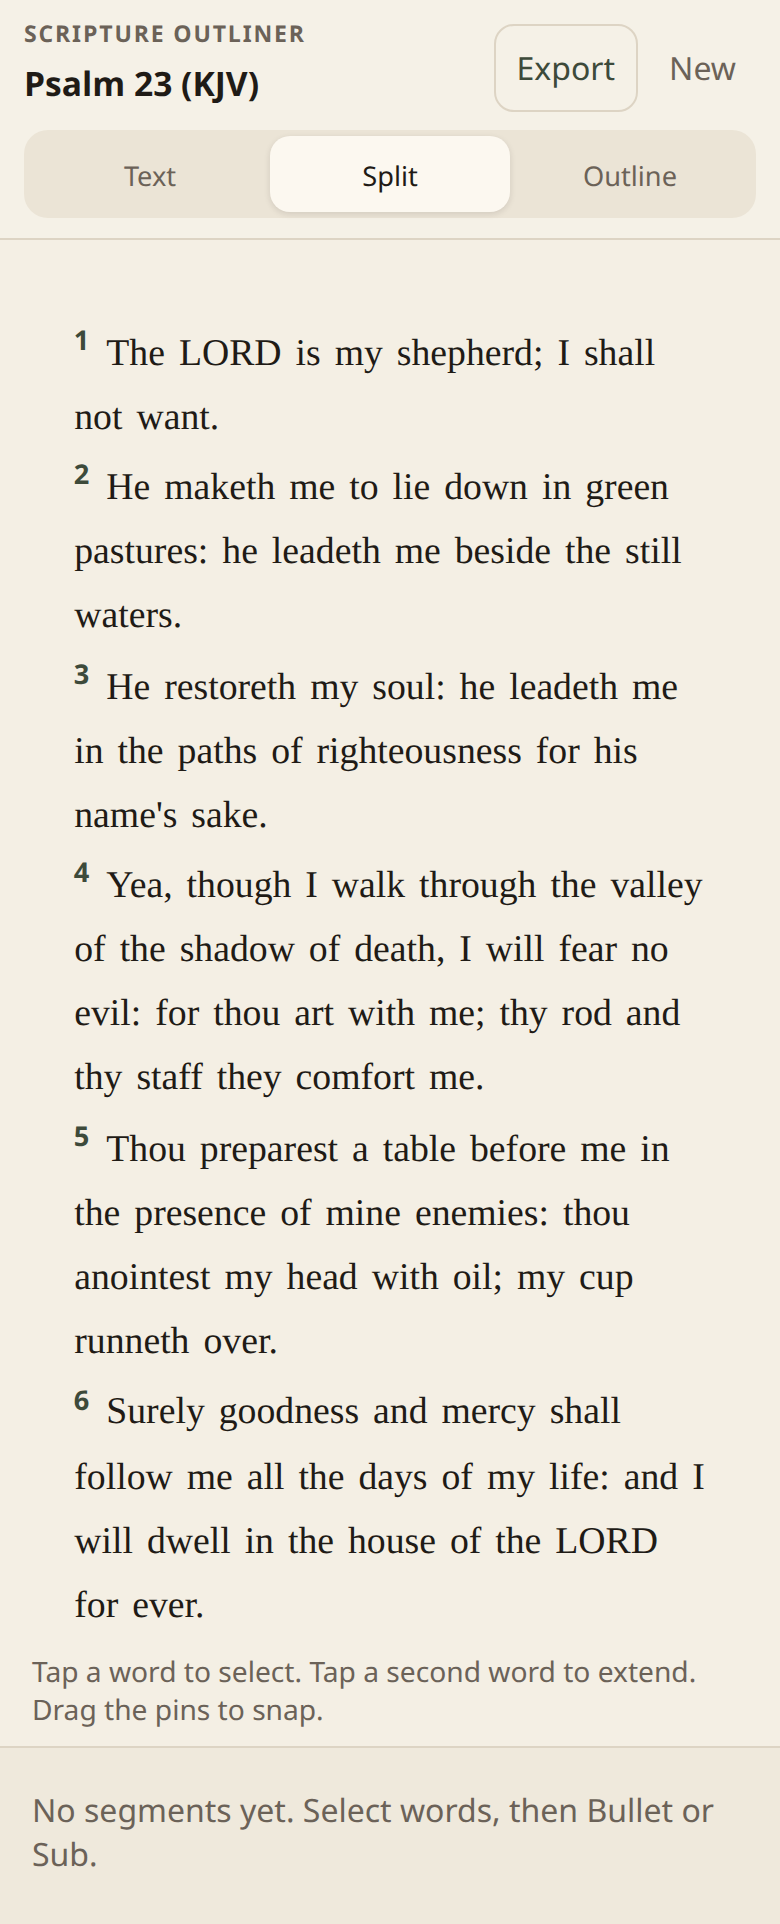
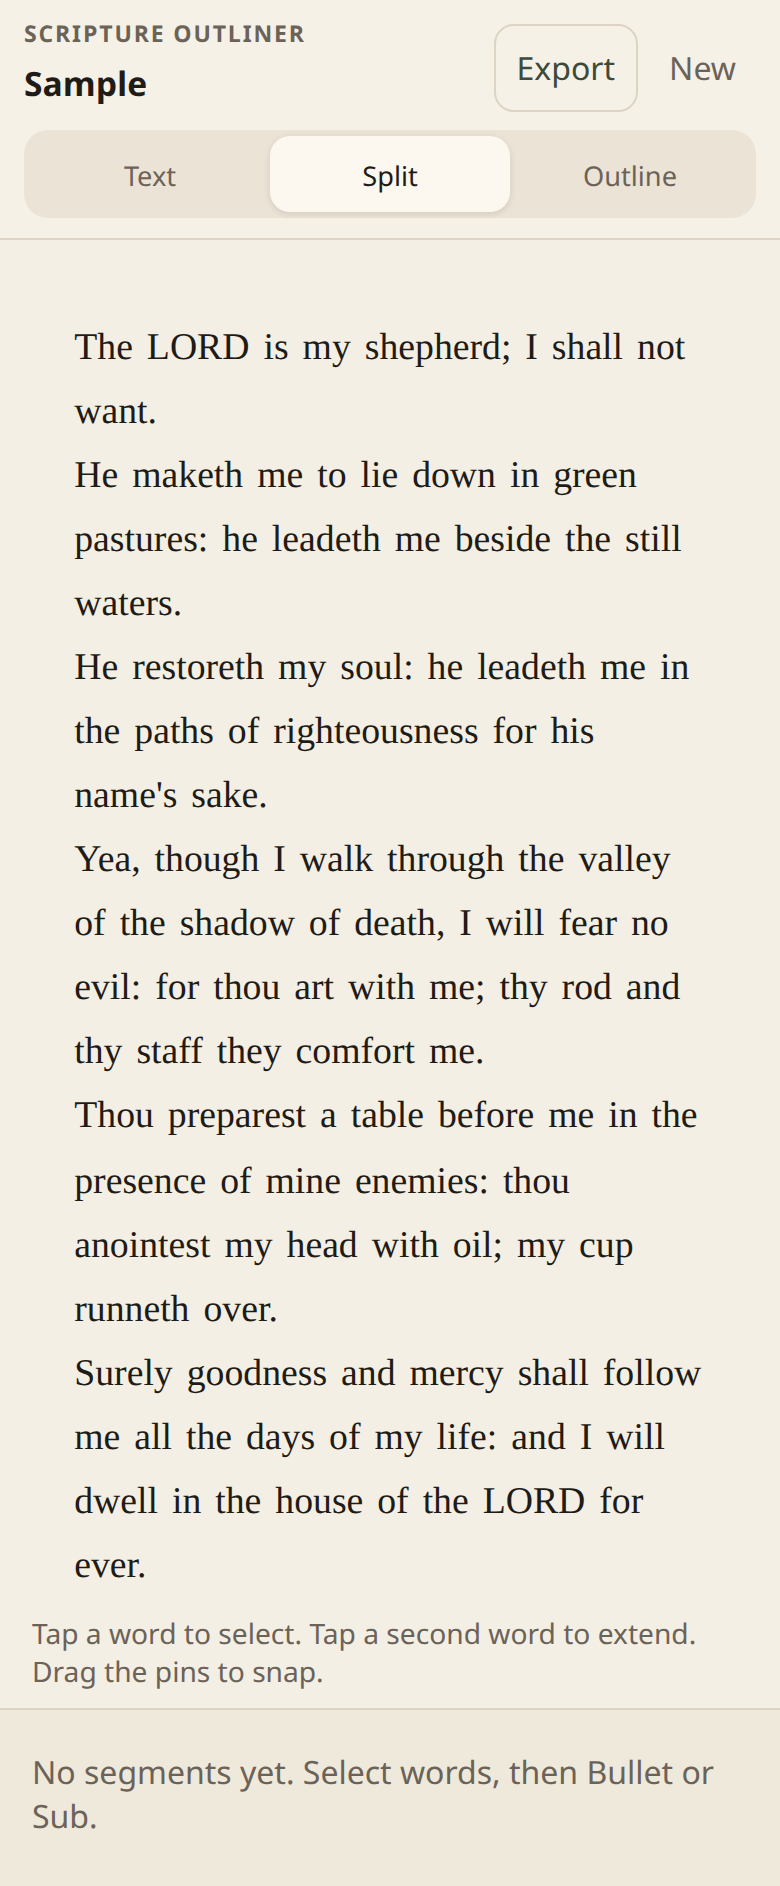
Treat the app as a general text outliner without verse chrome.
Tokenize numbers as ordinary words, drop verseLabel styling, and present the sample as plain prose. README and import copy follow the text-outliner framing. Verification recipes and import-sample evidence are updated.

diff --git a/src/app.ts b/src/app.ts
@@ -156,7 +156,7 @@ export function mount(root: HTMLElement): void {
     for (const word of doc.passage.words) {
       appendBreak(refs.passage, breaks[word.id] ?? "space");
       const span = document.createElement("span");
-      span.className = word.verseLabel ? "word verse" : "word";
+      span.className = "word";
       span.dataset.wordId = String(word.id);
       span.setAttribute("data-testid", "word");
       span.textContent = word.text;
@@ -540,7 +540,7 @@ export function mount(root: HTMLElement): void {
 
   refs.importView.querySelector("[data-import-submit]")?.addEventListener(
     "click",
-    () => importTextAs("Untitled passage", refs.importText.value),
+    () => importTextAs("Untitled", refs.importText.value),
   );
   refs.importView.querySelector("[data-load-sample]")?.addEventListener(
     "click",
@@ -707,7 +707,7 @@ function shellHtml(): string {
       <header class="header">
         <div class="brand">
           <h1 data-testid="app-title">Scripture Outliner</h1>
-          <input class="title-input" type="text" placeholder="Untitled passage" hidden data-testid="title-input" />
+          <input class="title-input" type="text" placeholder="Untitled" hidden data-testid="title-input" />
         </div>
         <div class="header-actions" hidden>
           <button type="button" class="secondary" data-export data-testid="export">Export</button>
@@ -717,12 +717,12 @@ function shellHtml(): string {
       </header>
       <main class="main">
         <section class="empty" data-import data-testid="import-view">
-          <h2>Import a passage</h2>
-          <p>Paste scripture (or any text). Select by tapping words — nothing is auto-outlined.</p>
-          <textarea data-import-text data-testid="import-text" placeholder="Paste passage text…"></textarea>
+          <h2>Import text</h2>
+          <p>Paste any text. Select by tapping words — nothing is auto-outlined.</p>
+          <textarea data-import-text data-testid="import-text" placeholder="Paste text…"></textarea>
           <div class="empty-actions">
             <button type="button" data-import-submit data-testid="import-submit">Import</button>
-            <button type="button" class="secondary" data-load-sample data-testid="load-sample">Load sample (Psalm 23 KJV)</button>
+            <button type="button" class="secondary" data-load-sample data-testid="load-sample">Load sample</button>
           </div>
         </section>
         <section class="editor" hidden data-editor data-testid="editor" data-view="split">

diff --git a/src/sample.ts b/src/sample.ts
@@ -1,9 +1,9 @@
-/** Public-domain KJV text (Psalm 23). */
-export const SAMPLE_TITLE = "Psalm 23 (KJV)";
+/** Public-domain prose used as a built-in sample. */
+export const SAMPLE_TITLE = "Sample";
 
-export const SAMPLE_TEXT = `1 The LORD is my shepherd; I shall not want.
-2 He maketh me to lie down in green pastures: he leadeth me beside the still waters.
-3 He restoreth my soul: he leadeth me in the paths of righteousness for his name's sake.
-4 Yea, though I walk through the valley of the shadow of death, I will fear no evil: for thou art with me; thy rod and thy staff they comfort me.
-5 Thou preparest a table before me in the presence of mine enemies: thou anointest my head with oil; my cup runneth over.
-6 Surely goodness and mercy shall follow me all the days of my life: and I will dwell in the house of the LORD for ever.`;
+export const SAMPLE_TEXT = `The LORD is my shepherd; I shall not want.
+He maketh me to lie down in green pastures: he leadeth me beside the still waters.
+He restoreth my soul: he leadeth me in the paths of righteousness for his name's sake.
+Yea, though I walk through the valley of the shadow of death, I will fear no evil: for thou art with me; thy rod and thy staff they comfort me.
+Thou preparest a table before me in the presence of mine enemies: thou anointest my head with oil; my cup runneth over.
+Surely goodness and mercy shall follow me all the days of my life: and I will dwell in the house of the LORD for ever.`;

diff --git a/src/tokenize.ts b/src/tokenize.ts
@@ -7,11 +7,9 @@ export type TokenizeResult = {
   breakBefore: BreakKind[];
 };
 
-const VERSE_RE = /^(?:\d+:\d+|\d+)$/;
-
 /**
- * Split passage text on whitespace. Punctuation stays attached to words.
- * Line-leading `1` / `1:1` tokens are marked as verse labels.
+ * Split text on whitespace. Punctuation stays attached to words.
+ * Tokens are plain words; numbers and labels are not special.
  */
 export function tokenize(rawText: string): TokenizeResult {
   const words: Word[] = [];
@@ -55,13 +53,7 @@ export function tokenize(rawText: string): TokenizeResult {
       j += 1;
     }
     const token = text.slice(i, j);
-    const atLineStart =
-      words.length === 0 || pending === "newline" || pending === "par" || pending === "none";
-    const word: Word = { id: words.length, text: token };
-    if (atLineStart && VERSE_RE.test(token)) {
-      word.verseLabel = token;
-    }
-    words.push(word);
+    words.push({ id: words.length, text: token });
     breakBefore.push(
       words.length === 1 ? "none" : pending === "none" ? "space" : pending,
     );

diff --git a/vite.config.ts b/vite.config.ts
@@ -13,7 +13,7 @@ export default defineConfig({
         name: "Scripture Outliner",
         short_name: "Outliner",
         description:
-          "Hand-outline scripture passages with word-level selection.",
+          "Hand-outline text with word-level selection.",
         theme_color: "#3d4a3a",
         background_color: "#f4efe4",
         display: "standalone",

diff --git a/index.html b/index.html
@@ -15,7 +15,7 @@
     />
     <meta
       name="description"
-      content="Hand-outline scripture passages with word-level selection."
+      content="Hand-outline text with word-level selection."
     />
     <link rel="icon" type="image/png" href="%BASE_URL%icons/icon-192.png" />
     <link rel="apple-touch-icon" href="%BASE_URL%icons/apple-touch-icon.png" />

diff --git a/src/styles.css b/src/styles.css
@@ -291,15 +291,6 @@ button.danger {
   cursor: pointer;
 }
 
-.word.verse {
-  font-family: var(--font-ui);
-  font-size: 0.72em;
-  font-weight: 700;
-  color: var(--forest);
-  vertical-align: super;
-  padding-right: 0.2em;
-}
-
 .word.seg-0 {
   background: var(--seg0);
 }

diff --git a/src/store.ts b/src/store.ts
@@ -25,9 +25,6 @@ function parseWord(value: unknown, index: number): Word | null {
     return null;
   }
   const word: Word = { id: index, text: value.text };
-  if (typeof value.verseLabel === "string") {
-    word.verseLabel = value.verseLabel;
-  }
   return word;
 }
 

diff --git a/src/types.ts b/src/types.ts
@@ -4,8 +4,6 @@ export type WordId = number;
 export type Word = {
   id: WordId;
   text: string;
-  /** Present when the token looks like `1:1` or a leading verse number. */
-  verseLabel?: string;
 };
 
 export type Passage = {

diff --git a/.cursor/skills/verify-scripture-outliner/features/import-sample.md b/.cursor/skills/verify-scripture-outliner/features/import-sample.md
@@ -1,6 +1,6 @@
 # Import and sample
 
-Import lets a user paste any text or load the built-in Psalm 23 sample, then see the passage as tappable words with a title. Nothing is outlined until the user marks a range.
+Import lets a user paste any text or load the built-in sample, then see the text as tappable words with a title. Nothing is outlined until the user marks a range.
 
 ## Sub-features
 
@@ -13,7 +13,7 @@ Import lets a user paste any text or load the built-in Psalm 23 sample, then see
 
 - Open the app with no saved document.
 - Choose **Import** after pasting into the textarea.
-- Choose **Load sample (Psalm 23 KJV)**.
+- Choose **Load sample**.
 
 ## Driving it with verify-so
 
@@ -23,11 +23,11 @@ Preconditions:
 - `doctor.sh` reports `OK`.
 - `scripture-outliner.document.v1` is empty (drive helper clears it).
 
-- **Empty state.** Open the preview. Run `node scripts/drive.mjs import-sample` (it asserts this first) or `page.getByTestId("import-view")`. The heading **Import a passage**, textarea `import-text`, buttons `import-submit` and `load-sample` are visible. `editor` is hidden.
+- **Empty state.** Open the preview. Run `node scripts/drive.mjs import-sample` (it asserts this first) or `page.getByTestId("import-view")`. The heading **Import text**, textarea `import-text`, buttons `import-submit` and `load-sample` are visible. `editor` is hidden.
 - **Reject empty.** Choose **Import** with an empty field. Run `page.getByTestId("import-submit").click()`. `import-view` stays visible and no `word` nodes exist.
-- **Paste import.** Fill `import-text` with `Alpha beta.` and choose **Import**. Run `page.getByTestId("import-text").fill("Alpha beta.")` then `page.getByTestId("import-submit").click()`. `title-input` is `Untitled passage`. Words `Alpha` and `beta.` exist. `load-sample` is gone.
-- **Sample.** From empty import, choose **Load sample (Psalm 23 KJV)**. Run `page.getByTestId("load-sample").click()`. `title-input` contains `Psalm 23`. `passage` is visible with at least 50 `word` nodes. Word id `0` currently reads `1` (verse token). The first prose word is id `1` `The`.
-- **Proof.** Capture empty and loaded states. `drive.mjs import-sample` writes `evidence/import-sample/empty.png`, `sample-loaded.png`, `*.aria.txt`, and `result.json`. Artifacts must show **Scripture Outliner** and, after load, **Psalm 23**.
+- **Paste import.** Fill `import-text` with `Alpha beta.` and choose **Import**. Run `page.getByTestId("import-text").fill("Alpha beta.")` then `page.getByTestId("import-submit").click()`. `title-input` is `Untitled`. Words `Alpha` and `beta.` exist. `load-sample` is gone.
+- **Sample.** From empty import, choose **Load sample**. Run `page.getByTestId("load-sample").click()`. `title-input` is `Sample`. `passage` is visible with at least 50 `word` nodes. Word id `0` reads `The`. Leading verse numbers are not rendered as a separate style.
+- **Proof.** Capture empty and loaded states. `drive.mjs import-sample` writes `evidence/import-sample/empty.png`, `sample-loaded.png`, `*.aria.txt`, and `result.json`. Artifacts must show **Scripture Outliner** and, after load, title **Sample** with first word **The**.
 
 ## Gotchas
 
@@ -35,3 +35,4 @@ Preconditions:
 - **Load sample** also fills the textarea, then imports. Assert the editor, not the textarea value.
 - Empty import does not throw; it focuses the textarea. Wait for missing `word` nodes, not an error toast (there is none).
 - Local preview uses `VITE_BASE=/`. Do not expect `/scripture-outliner/` asset prefixes here.
+- Tokens that look like `1` or `1:1` are ordinary words. Do not expect superscript verse chrome.

diff --git a/README.md b/README.md
@@ -1,6 +1,6 @@
 # Scripture Outliner
 
-Mobile-first PWA for outlining a scripture passage by hand. You import text, select **words** (not characters), mark sections and subsections, and write your own summary statements. Nothing is auto-outlined or auto-summarized.
+Mobile-first PWA for outlining text by hand. You import text, select **words** (not characters), mark sections and subsections, and write your own summary statements. Nothing is auto-outlined or auto-summarized.
 
 One document at a time. It lives in `localStorage` on this device.
 
@@ -52,10 +52,10 @@ Install and the service worker require a secure context: `localhost` or HTTPS.
 
 ## Core loop
 
-1. Paste a passage, or tap **Load sample (Psalm 23 KJV)** (public domain).
+1. Paste text, or tap **Load sample**.
 2. Tap a word to select it. Tap a second word to extend the range. Drag the two pins; they snap to word edges only.
 3. **Bullet** marks a depth-0 section. **Sub** marks a depth-1 subsection. **Summary** opens an editor for that range (empty until you type).
-4. Switch **Text** / **Split** / **Outline**. In Split, tap an outline row to reselect that range in the passage.
+4. Switch **Text** / **Split** / **Outline**. In Split, tap an outline row to reselect that range in the text.
 5. Reload: the current document is restored from `localStorage`. **Export** downloads Markdown (and copies it when the clipboard is available).
 
 ## Manual QA (~390px viewport)
@@ -68,7 +68,7 @@ Use device mode at **390×844** (or an actual phone). After `npm run dev`:
 4. Drag the end pin onto **shepherd;** — it snaps to that word, never mid-token.
 5. **Bullet**, then select a later phrase and **Sub**. Highlights use two shades; the outline lists an indented sub-bullet.
 6. **Summary**, type a sentence, Save. The outline shows your text, not a generated paraphrase.
-7. Switch to **Split**: passage on top, outline under it, both scrollable. Tap the outline row — the passage reselects that range.
+7. Switch to **Split**: text on top, outline under it, both scrollable. Tap the outline row — the text reselects that range.
 8. **Text** hides the outline; **Outline** hides the passage. Sticky **Bullet / Sub / Summary** stay tappable (44px targets) above the home indicator.
 9. Reload the tab. Title, segments, summaries, and view mode return.
 10. **Export** produces a `.md` file with indented bullets.

diff --git a/.cursor/skills/verify-scripture-outliner/features/persistence.md b/.cursor/skills/verify-scripture-outliner/features/persistence.md
@@ -19,8 +19,8 @@ Preconditions:
 
 - Preview origin is the launched `127.0.0.1` port (storage is origin-scoped).
 
-- **Save.** Load sample, select a word, choose **Bullet**. Run `drive.mjs persistence` or the same clicks. `page.evaluate(() => localStorage.getItem("scripture-outliner.document.v1"))` is non-null JSON with `passage.title` containing `Psalm 23` and `segments.length >= 1`.
-- **Reload.** `page.reload()`. `title-input` still contains `Psalm 23`. At least one `outline-row` exists. `import-view` is hidden.
+- **Save.** Load sample, select a word, choose **Bullet**. Run `drive.mjs persistence` or the same clicks. `page.evaluate(() => localStorage.getItem("scripture-outliner.document.v1"))` is non-null JSON with `passage.title` equal to `Sample` and `segments.length >= 1`.
+- **Reload.** `page.reload()`. `title-input` is still `Sample`. At least one `outline-row` exists. `import-view` is hidden.
 - **New.** Choose **New** and accept the confirm. Run `page.getByTestId("new-document").click()` with a dialog handler that accepts. `import-view` is visible. Storage key is gone.
 - **Proof.** `drive.mjs persistence` writes `evidence/persistence/reload.png` after reload, with title and outline still present.
 

diff --git a/.cursor/skills/verify-scripture-outliner/SKILL.md b/.cursor/skills/verify-scripture-outliner/SKILL.md
@@ -60,7 +60,7 @@ Stable handles (prefer `data-testid`):
 | `import-view` | Empty-state import section |
 | `import-text` | Paste textarea |
 | `import-submit` | Import button |
-| `load-sample` | Load sample (Psalm 23 KJV) |
+| `load-sample` | Load sample |
 | `title-input` | Document title |
 | `editor` | Editor; `data-view` is `text` \| `split` \| `outline` |
 | `passage` | Word stream |
@@ -73,7 +73,7 @@ Stable handles (prefer `data-testid`):
 | `summary-dialog` `summary-field` `summary-save` `summary-cancel` | Summary modal |
 | `export` `new-document` | Header actions |
 
-Do not click words by CSS `.word` index in new recipes if a `data-word-id` is known. Sample load currently makes word id `0` the verse token `1` and id `1` `The`.
+Do not click words by CSS `.word` index in new recipes if a `data-word-id` is known. After **Load sample**, word id `0` is `The`.
 
 Feature recipes live in [`features/`](features/README.md). Drive the mapped entry points, not a shortcut.
 
